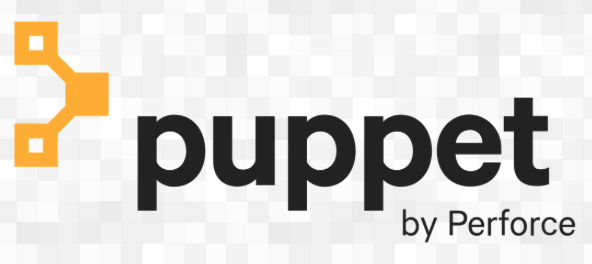
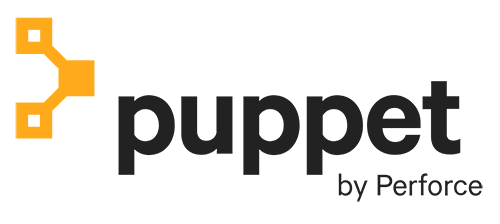
[CHI-2023] Fix puppet, add small speaker info

diff --git a/content/events/2023-chicago/speaker-info.md b/content/events/2023-chicago/speaker-info.md
@@ -3,7 +3,6 @@ date = "2016-10-17T08:26:34-05:00"
 title = "Speaker Information"
 type = "event"
 description = "Speaker information for DevOpsDays Chicago 2023"
-
 +++
 <!-- TOC -->
 
@@ -49,10 +48,11 @@ The event takes place on Wednesday and Thursday, August 9-10, 2023. The detailed
 
 As a part of the [Global DevOpsDays Organizer Summit](/organizer-summit), all DevOpsDays Chicago speakers are invited to join for an evening reception/party the evening of Tuesday, August 8. This will take place at [Franklin Tap](https://www.franklintap.com/) at 6:00 PM. You should have received a calendar invite with more details!
 
-
 ### Check-in
 
-If you attend the Organizer Summit Party Event, we will give you your badge and check you in there. This would allow you to skip the registration line at the event. Just make sure to wear your badge to gain admission to the conference!
+If you attend the Organizer Summit Party Event, we will give you your badge and check you in there. This would allow you to skip the registration line at the event. Just make sure to wear your badge to gain admission to the conference! 
+
+*Even with your badge, you will still need to go through the Covid-19 check (show your vaccination card or negative test result) and get a sticker for your badge. If you are speaking on Wednesday, please to identify yourself as as to a person in a red volunteer/organizer shirt and we will bump you up to the front of the line!*
 
 If you do not attend the Tuesday night event, you will need to check in at the registration desk. Make sure to let them know you are a speaker.
 
